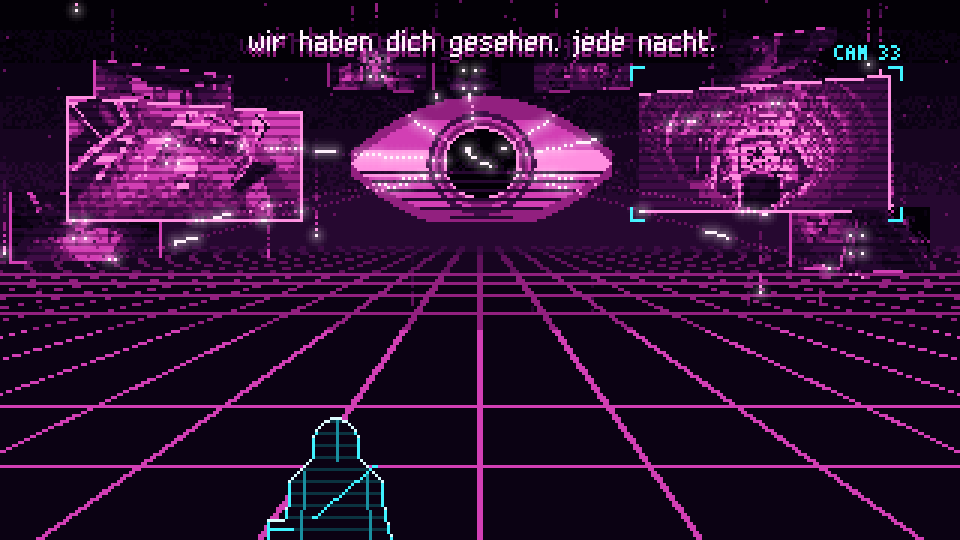
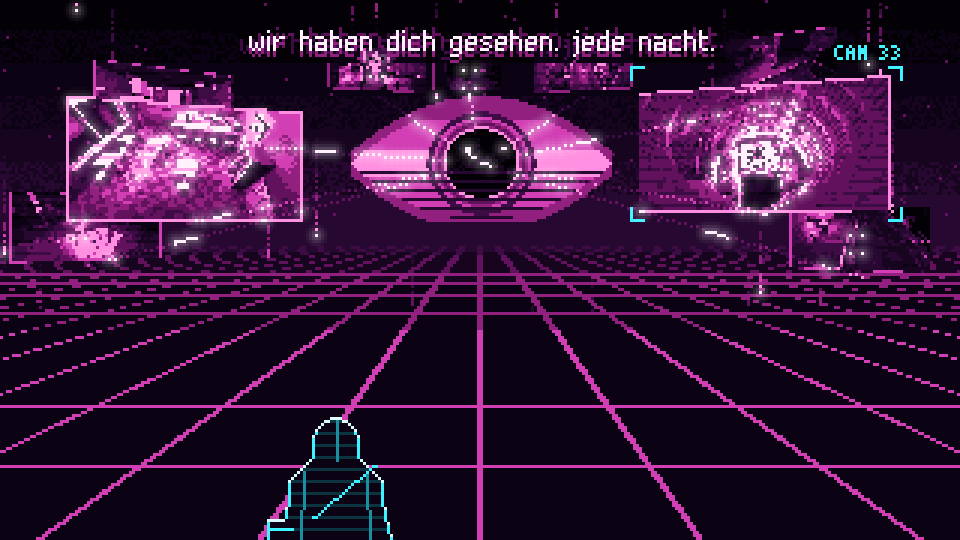
The dream's mockup has its second round: two pictures made of code show what Juno finds inside a picture, Teo seen from behind sitting solid and in colour on the rim above CAM 33's shaft (his vest's band, the ear defenders round his neck, the patch behind his left ear on Lull's beat, "Ju. Du bist ja

diff --git a/art/mockups/mock_g_traum.px.js b/art/mockups/mock_g_traum.px.js
@@ -64,8 +64,8 @@ function feedPanel(c, p, cy, f) {
     const u = (L[0] * r[0] + L[2] * r[2]) / p.w + 0.5, v = 0.5 - L[1] / p.h
     if (u < 0 || u >= 1 || v < 0 || v >= 1) continue
     const edge = u < 0.012 || u > 0.988 || v < 0.02 || v > 0.98
-    let k = edge ? 8 : sample(p.img, u, v) * 0.8 + 1.3
-    if (!edge && ((y + f) % 3 === 0)) k -= 1                          // the dream's own scanlines, drifting
+    let k = edge ? 8 : sample(p.img, u, v) * 0.95 + 0.9
+    if (!edge && ((y + f) % 4 === 0)) k -= 0.7                          // the dream's own scanlines, drifting
     c.px(x, y, dk(k - fade))
   }
   p.box = [x0, y0, x1, y1]; p.corners = corners
@@ -279,12 +279,11 @@ scene("mock_g_traum_tunnel", { w: W, h: H, bg: "a" },
 // ================================================================ C: the picture made of code
 // CAM 33, the pump hall's shaft from the rim, built only from the falling beat: each column a stream, its glyphs as bright
 // as the picture under them; where a stream's head passes, the picture flares white. The sleepers on the bench are marked.
-function glyphsC(c, f) {
-  const img = IMG["cam33_pause"]
+function glyphsC(c, f, img = IMG["cam33_pause"], y1 = H) {
   for (let x = 0; x < W; x += 3) {
     const r = ih(x, 7), s = r < 0.5 ? 5 : 10, P = 240
     const head = (Math.floor(ih(x, 3) * P) + f * s) % P
-    for (let y = 0; y < H; y++) {
+    for (let y = 0; y < y1; y++) {
       const gi = (y + Math.floor(ih(x, 5) * 14)) % 14
       const on = GLYPH[gi]
       const v = (img[y][x] + img[y][Math.min(W - 1, x + 1)]) / 2
@@ -306,4 +305,136 @@ scene("mock_g_traum_glyphen", { w: W, h: H, bg: "a" },
   (c) => juno(c, 58, H + 6, c.frame),
   (c) => voices(c, W / 2, 8, "wenn ich schlaf, ist alles still.", c.frame),
   (c) => glitch(c, c.frame),
+)
+
+// ================================================================ round 2: what Juno finds inside a picture
+// A line spoken in the dream (Teo, Raya): white, an ink edge, no voices behind it: one person, not the Witness.
+function speak(c, x, y, s) { TXT.draw(c, x, y, s, "j", { align: "center", outline: "a" }) }
+
+// C1: Teo on the rim of CAM 33. The shaft below is the camera's picture made of code; the rim is solid, and on it sits Teo, seen from
+// behind, in the dream's colours (kapitel3-design §3.6), his legs over the edge, the patch behind his left ear on Lull's beat.
+const TEO = [
+  ".......dddddd.......",
+  ".....dddddddddd.....",
+  "....ddddddeddddd....",
+  "....dddddddddddd....",
+  "...sdddddddddddds...",
+  "...sdddddddddddds...",
+  "...Pdddddddddddd....",
+  ".....dddddddddd.....",
+  "......ssssssss......",
+  "....gggggggggggg....",
+  "...gGGGGGGGGGGGGg...",
+  "..wwvvvvvvvvvvvvww..",
+  ".wwwvvvvvvvvvvvvwww.",
+  ".wwwvvvvvvvvvvvvwww.",
+  "wwwwvvvvvvvvvvvvwwww",
+  "wwwwvvvvvvvvvvvvwwww",
+  "wwwwvvvvvvvvvvvvwwww",
+  "wwwwVVVVVVVVVVVVwwww",
+  "wwwwvvvvvvvvvvvvwwww",
+  "wwwwvvvvvvvvvvvvwwww",
+  ".wwwvvvvvvvvvvvvwww.",
+  ".sssvvvvvvvvvvvvsss.",
+  "..ssvvvvvvvvvvvvss..",
+  "....vvvvvvvvvvvv....",
+]
+// d hair, s skin, g/G the ear defenders round his neck, w the shirt, v the orange vest, V its reflective band, P the Lull patch
+const TEO_KEYS = { d: "c", e: "d", s: "i", g: "f", G: "g", w: "e", v: "h", V: "j" }
+function teo(c, x0, y0, f, S = 2) {    // drawn at S times its grid: he is what the picture is about
+  const m = (i, j) => j >= 0 && j < TEO.length && i >= 0 && i < TEO[j].length && TEO[j][i] !== "."
+  const at = (X, Y) => m(Math.floor((X - x0) / S), Math.floor((Y - y0) / S))
+  for (let Y = y0 - 1; Y < y0 + TEO.length * S + 1; Y++) for (let X = x0 - 1; X < x0 + 20 * S + 1; X++) {
+    const i = Math.floor((X - x0) / S), j = Math.floor((Y - y0) / S)
+    if (!m(i, j)) { if (at(X - 1, Y) || at(X + 1, Y) || at(X, Y - 1) || at(X, Y + 1)) put(c, X, Y, "a"); continue }
+    const k = TEO[j][i]
+    put(c, X, Y, k === "P" ? (beat(f) ? "j" : "g") : TEO_KEYS[k])
+  }
+}
+function rim(c, top) {               // the shaft's rim: a ledge across the bottom, its edge lit
+  for (let y = top; y < H; y++) for (let x = 0; x < W; x++) {
+    const e = y - top - Math.round(Math.sin(x / 40) * 1.5)
+    if (e < 0) continue
+    c.px(x, y, e === 0 ? "h" : e === 1 ? "g" : (x + y * 3) % 11 === 0 ? "e" : "d")
+  }
+}
+scene("mock_g_traum_teo", { w: W, h: H, bg: "a" },
+  layer("clock", stamp("_clock", -4, -4)),
+  (c) => { capture(c); glyphsC(c, c.frame) },
+  (c) => rim(c, 158),
+  (c) => teo(c, 186, 112, c.frame),
+  glow("j", { r: 3, strength: 0.35, ramp: 0 }),
+  (c) => juno(c, 96, H + 6, c.frame),
+  (c) => marks(c, 86, 136, 106, 156, "j", 3),             // the sleepers have marked her (the first night: „Die haben mich markiert.“)
+  (c) => { brackets(c, 182, 108, 229, 162, "U", 5); TXT.draw(c, 182, 100, "TEO", "U", { font: "hud", outline: "a" }) },
+  (c) => speak(c, 206, 86, "Ju. Du bist ja wach."),
+  (c) => glitch(c, c.frame, 1),
+)
+
+// C2: the station in the Fifth, where the bodies lie (kapitel3-design §9.2): rows of beds in white salt light, seen through one of
+// its cameras and built from the beat like any picture in the dream. Raya's bed has her name and number at its foot (§6.1).
+const STATION = (() => {
+  const cam = { pos: [0, 4.6, -1.4], pitch: 42 * Math.PI / 180 }
+  const cp = Math.cos(cam.pitch), sp = Math.sin(cam.pitch)
+  const boxes = [], heads = [], plates = []
+  for (let row = 0; row < 6; row++) for (const bx of [-1.9, 0, 1.9]) {
+    const bz = 1.8 + row * 3.2
+    boxes.push({ a: [bx - 0.48, 0, bz - 1], b: [bx + 0.48, 0.55, bz + 1], top: 8.6 })           // the bed, the white blanket
+    boxes.push({ a: [bx - 0.4, 0.55, bz + 0.55], b: [bx + 0.4, 0.68, bz + 0.95], top: 9.4 })    // the pillow
+    heads.push({ c: [bx, 0.74, bz + 0.62], r: 0.17 })
+    plates.push({ a: [bx - 0.22, 0.25, bz - 1.02], b: [bx + 0.22, 0.42, bz - 1.0], top: 9.6, raya: row === 1 && bx === 0 })
+  }
+  const img = []
+  for (let y = 0; y < H; y++) {
+    const r = new Uint8Array(W)
+    for (let x = 0; x < W; x++) {
+      const ux = (x + 0.5 - W / 2) / F, uy = -(y + 0.5 - H / 2) / F
+      const d = [ux, uy * cp - sp, uy * sp + cp], n = Math.hypot(...d); d[0] /= n; d[1] /= n; d[2] /= n
+      let best = 1e9, val = 0
+      const hitBox = (B, front) => {
+        let t0 = -1e9, t1 = 1e9, ax = -1
+        for (let k = 0; k < 3; k++) {
+          const inv = 1 / d[k], ta = (B.a[k] - cam.pos[k]) * inv, tb = (B.b[k] - cam.pos[k]) * inv
+          const lo = Math.min(ta, tb), hi = Math.max(ta, tb)
+          if (lo > t0) { t0 = lo; ax = k } if (hi < t1) t1 = hi
+        }
+        if (t0 < t1 && t0 > 0 && t0 < best) { best = t0; val = ax === 1 ? B.top : ax === 2 ? front : front - 1.5 }
+      }
+      for (const B of boxes) hitBox(B, 6.4)
+      for (const B of plates) hitBox(B, B.top)
+      for (const S of heads) {
+        const o = [cam.pos[0] - S.c[0], cam.pos[1] - S.c[1], cam.pos[2] - S.c[2]]
+        const b = o[0] * d[0] + o[1] * d[1] + o[2] * d[2], cc = o[0] ** 2 + o[1] ** 2 + o[2] ** 2 - S.r * S.r, disc = b * b - cc
+        if (disc > 0) { const t = -b - Math.sqrt(disc); if (t > 0 && t < best) { best = t; val = 1.2 } }
+      }
+      if (d[1] < 0) {                                                   // the floor: pale, with the lamps' pools down the aisles
+        const t = -cam.pos[1] / d[1]
+        if (t < best) { const px = cam.pos[0] + d[0] * t, pz = cam.pos[2] + d[2] * t
+          const pool = Math.max(0, 1 - Math.abs(((pz + 1.6) % 3.2) - 1.6) / 1.6) * (Math.abs(Math.abs(px) - 0.85) < 0.3 ? 1 : 0.3)
+          best = t; val = 2.6 + pool * 2 }
+      }
+      if (best > 1e8) val = 5                                           // the far wall, lit
+      r[x] = Math.max(0, Math.min(9, Math.round(val - Math.max(0, best - 6) * 0.12)))
+    }
+    img.push(r)
+  }
+  // where Raya's plate and head land on the screen (for the brackets)
+  const toScreen = (P) => { const rel = [P[0] - cam.pos[0], P[1] - cam.pos[1], P[2] - cam.pos[2]]
+    const zc = rel[1] * -sp + rel[2] * cp, yc = rel[1] * cp + rel[2] * sp
+    return [W / 2 + F * rel[0] / zc, H / 2 - F * yc / zc] }
+  return { img, raya: [toScreen([-0.52, 0.6, 1.8 + 3.2 - 1.05]), toScreen([0.52, 0.8, 1.8 + 3.2 + 1.0])] }
+})()
+scene("mock_g_traum_station", { w: W, h: H, bg: "a" },
+  layer("clock", stamp("_clock", -4, -4)),
+  (c) => glyphsC(c, c.frame, STATION.img),
+  (c) => {
+    const [[ax, ay], [bx, by]] = STATION.raya
+    const x0 = Math.round(Math.min(ax, bx)) - 2, x1 = Math.round(Math.max(ax, bx)) + 2, y0 = Math.round(Math.min(ay, by)) - 2, y1 = Math.round(Math.max(ay, by)) + 2
+    brackets(c, x0, y0, x1, y1, "U", 4)
+    TXT.draw(c, x1 + 4, y0, "RAYA 5M-0219", "U", { font: "hud", outline: "a" })
+  },
+  glow("j", { r: 3, strength: 0.3, ramp: 0 }),
+  (c) => juno(c, 56, H + 6, c.frame),
+  (c) => speak(c, W / 2, 8, "Sag ihr: Kiesel sieht sie."),
+  (c) => glitch(c, c.frame, 1),
 )

diff --git a/docs/mockups/README.md b/docs/mockups/README.md
@@ -45,6 +45,6 @@ Diese Bilder entstanden nach A bis F, jedes für eine einzelne Frage; die Entsch
 | `nagiwa_logo_x4.png` | wie der Name der Stadt und des Konzerns geschrieben werden kann; entschieden ist Nagi·wa | `art/mockups/nagiwa_logo.px.js` | 2026-11-07, `docs/story.md` §10 |
 | `mock_g_time.png` | der Zeitstempel des Implantats im Straßenmodus, drei Varianten; gewählt ist A, klein und gedämpft oben links | Mockup | 2026-11-08, `docs/style-guide.md` §8a |
 | `mock_g_ringe_a_x3.png`, `mock_g_ringe_b_x3.png` | der Blick vom Dach nach oben zu den Ringen: A genau entlang der Hochachse, B schräg von Junos Platz aus | Mockup | im Spiel steht B, `docs/kapitel1-design.md` („Die Stadt“) |
-| `mock_g_traum_raum_x3`, `mock_g_traum_tunnel_x3`, `mock_g_traum_glyphen_x3` (`.gif`, `.png`) | der Traum, der dritte Modus von Kapitel 3: A der Datenraum mit dem Auge als Sonne am Horizont, B der Tunnel aus Kamerabildern, C CAM 33 aus dem fallenden Takt gebaut | `art/mockups/mock_g_traum.px.js` | 2026-11-24: alle drei zusammen, als die drei Zustände des Traums, `docs/style-guide.md` §9a |
+| `mock_g_traum_raum_x3`, `mock_g_traum_tunnel_x3`, `mock_g_traum_glyphen_x3`, in der zweiten Runde `mock_g_traum_teo_x3` und `mock_g_traum_station_x3` (`.gif`, `.png`) | der Traum, der dritte Modus von Kapitel 3: A der Datenraum mit dem Auge als Sonne am Horizont, B der Tunnel aus Kamerabildern, C CAM 33 aus dem fallenden Takt gebaut; dazu, was Juno in einem Bild findet: Teo von hinten auf dem Rand über dem Schacht, Juno von den Schläfern markiert, und die Station im Fünften mit Rayas Bett | `art/mockups/mock_g_traum.px.js` | 2026-11-24: alle drei zusammen, als die drei Zustände des Traums, `docs/style-guide.md` §9a |
 | `zh_deck_compare_x2.png` | ein Test, wie das Deck mit chinesischen Zeichen aussähe (links Deutsch, rechts Chinesisch) | `art/test/cjk_deck.px.js` | nur ein Test, `docs/ideas/chinesisch.md` |
 

diff --git a/docs/kapitel3-design.md b/docs/kapitel3-design.md
@@ -172,7 +172,9 @@ Cyberspace, und hat am 2026-11-24 die drei Varianten **zusammen** gewählt, als 
   Hier klickt Juno die Bilder an.
 - **Der Tunnel** (B) ist der Weg: Ein angeklicktes Bild öffnet einen Tunnel, dessen Wände Kamerabilder sind, und Juno fliegt hindurch.
 - **Das Bild aus Code** (C) ist das Innere eines Bildes: der Ort, aus dem fallenden Takt gebaut, und darin, was Juno sucht (Teo am Rand
-  von CAM 33, Raya auf der Station).
+  von CAM 33, Raya auf der Station). Die zweite Runde zeigt beides (`mock_g_traum_teo_x3.gif`, `mock_g_traum_station_x3.gif`): Teo
+  sitzt fest und farbig auf dem Rand über dem Schacht aus Code, von hinten, das Pflaster am linken Ohr im Takt; die Station sind Reihen
+  weißer Betten, die Köpfe dunkel auf den Kissen, Rayas Bett in Junos Klammern mit Name und Nummer.
 
 Was der Traum außerdem zeigen soll (der Vorschlag vor dem Mockup, er gilt weiter):
 
@@ -496,6 +498,6 @@ auf den Ebenen, die der Stadtplan schon hat; nur weiter weg vom Kessel-Block. Ei
 Juno die Station im Fünften betritt. Im Stadtplan stehen beide als Vorschlag (`flutwerk_steg`, `flutwerk_tor`, `transit_neun`, dazu
 `becken_raum` und `cam33`); an die richtige Stelle setzt sie der Nutzer (§9.2).
 
-Technisch, beim Bau: die zweite Runde des Traum-Mockups (die Bilder im Datenraum lesbarer, Junos Umriss, Teo und Raya im Bild aus Code, die Ecken der Schläfer, die Station; §3.5), ob `transit_neun` Iso oder eine Bühne wird (Mockups), die Station als Raum für Kapitel
+Technisch, beim Bau: was nach der zweiten Runde des Traum-Mockups bleibt (Junos Umriss und Teo werden beim Malen genauer, die Bilder im Datenraum noch lesbarer; §3.5), ob `transit_neun` Iso oder eine Bühne wird (Mockups), die Station als Raum für Kapitel
 3 und 4, die Messung der Läufe (§13.5), §4.2 des Reviews (die Flicken von Kapitel 2 auf Räumen von Kapitel 1), sobald dieses Kapitel sie
 berührt.
